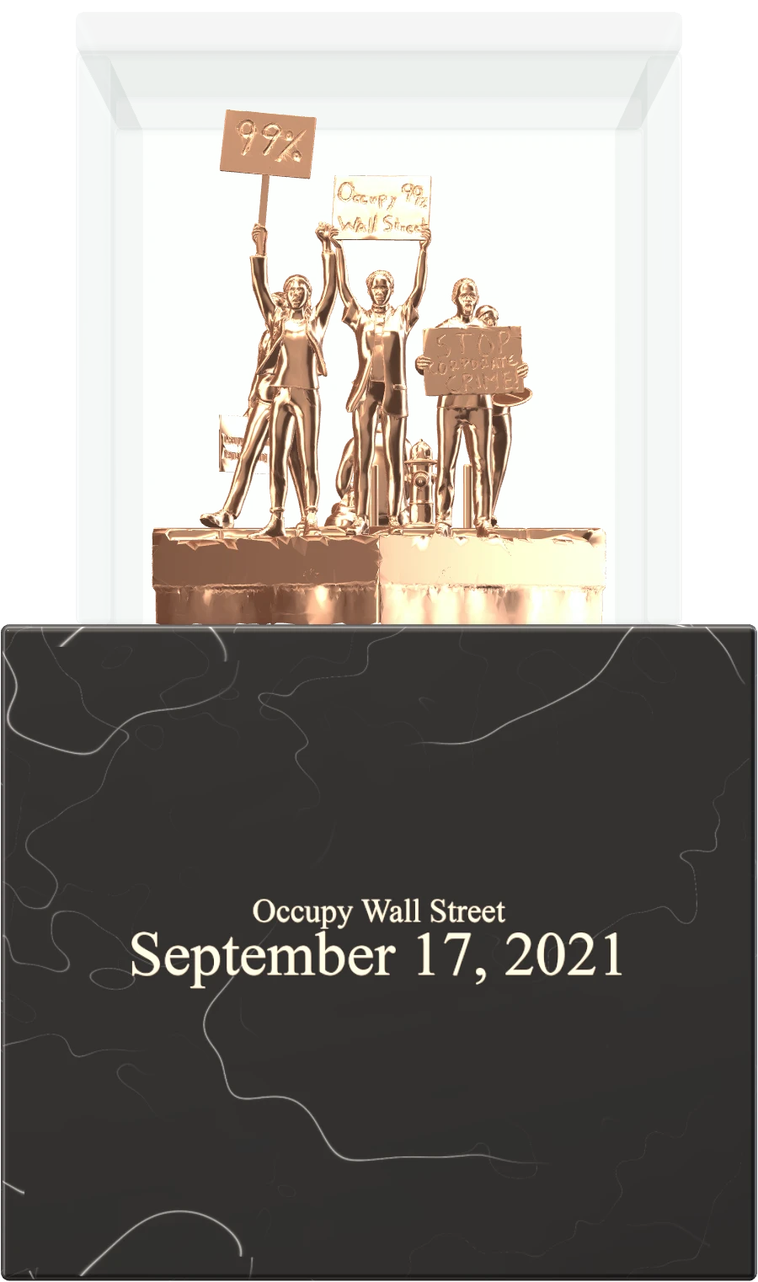
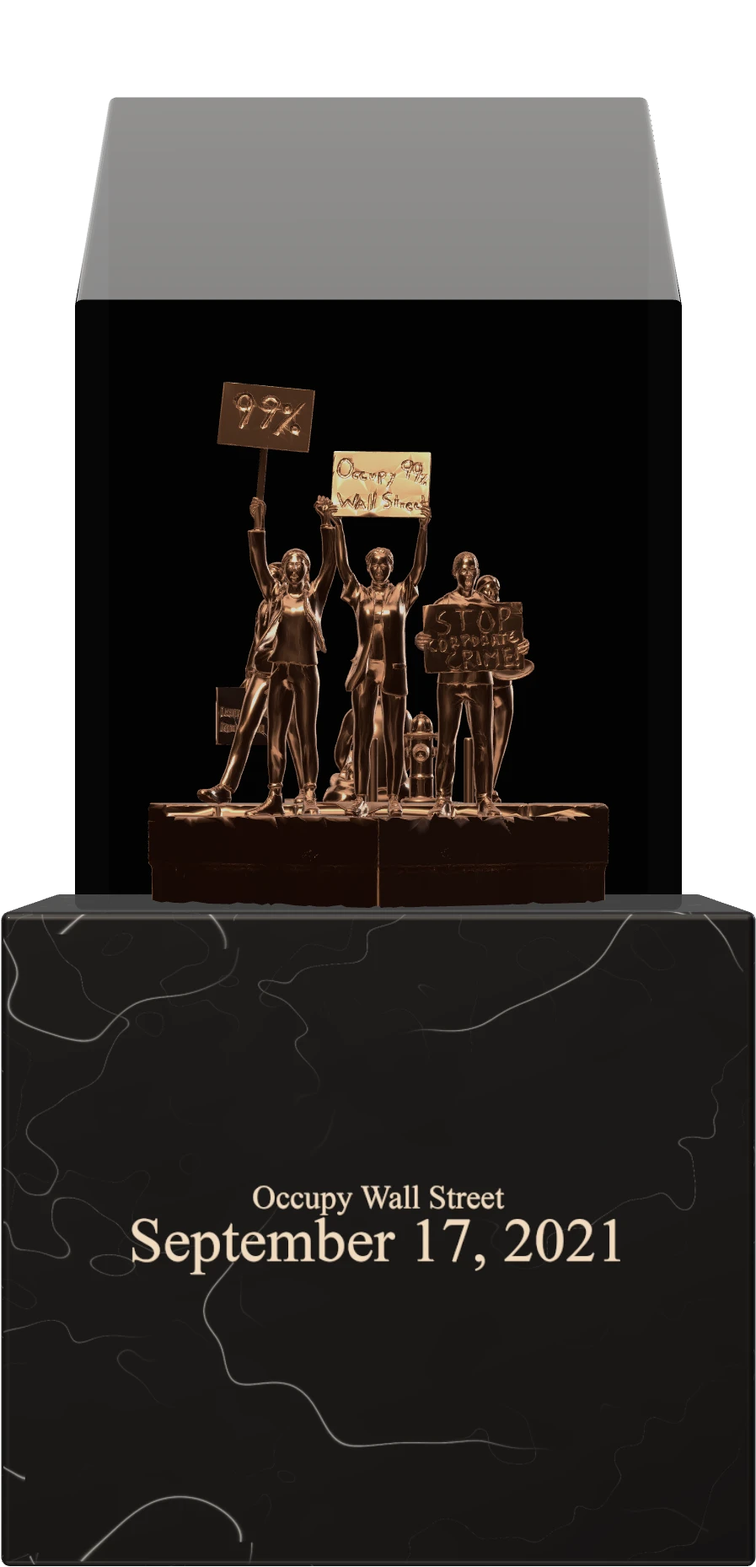
OWS Deal Toy: the acrylic is one solid piece with the sloped top
Checked against the render of the real object: the clear plastic is a single block
whose top is one plane sloping up towards the back (112 mm at the front, 164 at the
back), not a box of five panes, which showed an inset where the panes met and had
a flat top.

- The glass is one extruded profile with rounded edges, drawn as a faint dark veil
  plus a layer that adds only what the surface reflects (so the reflections are not
  dimmed by the veil's opacity). Back faces are drawn, so the far side shows through.
- The light boxes the reflections come from are re-aimed. They exist only in the
  reflection map: nothing of them is in the picture. One box is where the sloped
  roof looks (about 27 degrees up and behind once the piece is tilted), two narrow
  strips are behind the object for the bars of light down its sides, and nothing
  stands beside it, because a glass face seen at a grazing angle mirrors almost
  perfectly and showed any such box as a white wall.
- Proportions and the face-on still are redone for the taller piece (282 mm to the
  back edge): 897 x 1859.

Claude-Session: https://claude.ai/code/session_01EGwgPiuej9rzbPcR44dqfJ

diff --git a/js/toy.js b/js/toy.js
@@ -1,1 +1,1 @@
-import{A as ne,B as Qe,C as ye,D as Ze,a as de,c as fe,e as ue,f as T,g as pe,h as Ne,i as he,k as je,l as _,m as qe,n as He,o as Ye,p as _e,q as we,r as Je,s as me,z as Ke}from"./three-MD272M3B.js";var J=new T;function L(o,s,n,u,h,a){let r=2*Math.PI*h/4,p=Math.max(a-2*h,0),t=Math.PI/4;J.copy(s),J[u]=0,J.normalize();let M=.5*r/(r+p),d=1-J.angleTo(o)/t;return Math.sign(J[n])===1?d*M:p/(r+p)+M+M*(1-d)}var K=class extends qe{constructor(s=1,n=1,u=1,h=2,a=.1){if(h=h*2+1,a=Math.min(s/2,n/2,u/2,a),super(1,1,1,h,h,h),h===1)return;let r=this.toNonIndexed();this.index=null,this.attributes.position=r.attributes.position,this.attributes.normal=r.attributes.normal,this.attributes.uv=r.attributes.uv;let p=new T,t=new T,M=new T(s,n,u).divideScalar(2).subScalar(a),d=this.attributes.position.array,S=this.attributes.normal.array,w=this.attributes.uv.array,b=d.length/6,c=new T,x=.5/h;for(let m=0,y=0;m<d.length;m+=3,y+=2)switch(p.fromArray(d,m),t.copy(p),t.x-=Math.sign(t.x)*x,t.y-=Math.sign(t.y)*x,t.z-=Math.sign(t.z)*x,t.normalize(),d[m+0]=M.x*Math.sign(p.x)+t.x*a,d[m+1]=M.y*Math.sign(p.y)+t.y*a,d[m+2]=M.z*Math.sign(p.z)+t.z*a,S[m+0]=t.x,S[m+1]=t.y,S[m+2]=t.z,Math.floor(m/b)){case 0:c.set(1,0,0),w[y+0]=L(c,t,"z","y",a,u),w[y+1]=1-L(c,t,"y","z",a,n);break;case 1:c.set(-1,0,0),w[y+0]=1-L(c,t,"z","y",a,u),w[y+1]=1-L(c,t,"y","z",a,n);break;case 2:c.set(0,1,0),w[y+0]=1-L(c,t,"x","z",a,s),w[y+1]=L(c,t,"z","x",a,u);break;case 3:c.set(0,-1,0),w[y+0]=1-L(c,t,"x","z",a,s),w[y+1]=1-L(c,t,"z","x",a,u);break;case 4:c.set(0,0,1),w[y+0]=1-L(c,t,"x","y",a,s),w[y+1]=1-L(c,t,"y","x",a,n);break;case 5:c.set(0,0,-1),w[y+0]=L(c,t,"x","y",a,s),w[y+1]=1-L(c,t,"y","x",a,n);break}}};var z=Math.PI,C={w:136,h:118,d:136},i={w:111,h:112,d:111,wall:6,top:7},$e=C.h+i.h,dt=C.h+25.2;function ft(o){let s=new me;s.background=new pe(657932);function n(a,r,p,t,M,d,S,w){let b=new _(new Ye(a,r),new Ne({color:new pe(d,S,w),side:de}));b.position.set(p,t,M),b.lookAt(0,0,0),s.add(b)}n(18,5,0,10,2,11,10.5,10),n(4,16,-10,1,4,7,6.6,6.2),n(4,16,10,2,-2,6,6.2,6.6),n(14,10,0,1,11,.5,.48,.46),n(10,3,0,-9,2,1.3,1.2,1.1);let u=new _e(o),h=u.fromScene(s,.02).texture;return u.dispose(),h}function ut(o){let s=2166136261;for(let n of String(o||""))s^=n.charCodeAt(0),s=Math.imul(s,16777619);return function(){s+=1831565813;let n=s;return n=Math.imul(n^n>>>15,n|1),n^=n+Math.imul(n^n>>>7,n|61),((n^n>>>14)>>>0)/4294967296}}function et(o,s){return o.loadAsync(s).then(n=>(n.colorSpace=ue,n))}async function pt(o){let s=await fetch(o);if(!s.ok)throw new Error("figures: "+s.status);let n=typeof DecompressionStream=="function"?await new Response(s.body.pipeThrough(new DecompressionStream("gzip"))).arrayBuffer():(()=>{throw new Error("no DecompressionStream")})(),u=new DataView(n);if(u.getUint32(0,!1)!==1331122993)throw new Error("figures: not an OWS1 file");let h=u.getUint32(4,!0),a=u.getUint32(8,!0),r=[0,1,2].map(x=>u.getFloat32(12+x*4,!0)),p=[0,1,2].map(x=>u.getFloat32(24+x*4,!0)),t=new Uint16Array(n.slice(36,36+h*6)),M=new Uint32Array(n.slice(36+h*6,36+h*6+a*12)),d=new Float32Array(h*3),S=(p[0]-r[0])/65535,w=(p[1]-r[1])/65535,b=(p[2]-r[2])/65535;for(let x=0;x<h;x++){let m=r[0]+t[x*3]*S,y=r[1]+t[x*3+1]*w,E=r[2]+t[x*3+2]*b;d[x*3]=m,d[x*3+1]=E+dt,d[x*3+2]=-y}let c=new je;return c.setAttribute("position",new he(d,3)),c.setIndex(new he(M,1)),c.computeVertexNormals(),c}function xt(o){let s=o.el,n=1/C.w,u=1,h=$e*n,a=o.fit||Math.max(1,Math.max(h,u)/1.617),r;try{r=new Je({antialias:!0,alpha:!0})}catch(d){return Promise.reject(d)}r.setPixelRatio(Math.min(window.devicePixelRatio,2)),r.outputColorSpace=ue;let p=new me,t=new He(24,1,.1,100);t.position.set(0,0,5.3*a);let M=new Qe;return M.setCrossOrigin("anonymous"),Promise.all([pt(o.model),et(M,o.marble),et(M,o.front)]).then(function(d){let S=d[0],w=d[1],b=d[2],c=r.capabilities.getMaxAnisotropy();w.anisotropy=b.anisotropy=c,w.wrapS=w.wrapT=fe;let x=ft(r);p.environment=x;let m=new we,y=new we;y.position.y=-($e/2)*n,y.scale.setScalar(n),m.add(y),p.add(m);let E=(e,f,v)=>{let g=w.clone();return g.wrapS=g.wrapT=fe,g.repeat.set(v,v),g.offset.set(e,f),g.needsUpdate=!0,new ne({map:g,roughness:.42,metalness:0,clearcoat:.32,clearcoatRoughness:.06,envMapIntensity:.12})},xe=[E(.31,.12,.8),E(.66,.5,.8),E(.5,.88,.8),E(.2,.3,.8),new ne({map:b,roughness:.42,metalness:0,clearcoat:.32,clearcoatRoughness:.06,envMapIntensity:.12}),E(.12,.62,.8)],ge=new K(C.w,C.h,C.d,5,1.6),Me=new _(ge,xe);Me.position.y=C.h/2,y.add(Me);let be=new ne({color:13625056,metalness:0,roughness:.03,transparent:!0,opacity:.07,ior:1.5,clearcoat:1,clearcoatRoughness:.02,envMapIntensity:1.5,specularIntensity:1,depthWrite:!1,side:de}),ve=[],O=(e,f,v,g,V,te)=>{let W=new K(e,f,v,4,1.4),le=new _(W,be);le.renderOrder=2,le.position.set(g,V,te),y.add(le),ve.push(W)},X=C.h,I=i.h-i.top;O(i.w,i.top,i.d,0,X+i.h-i.top/2,0),O(i.w,I,i.wall,0,X+I/2,i.d/2-i.wall/2),O(i.w,I,i.wall,0,X+I/2,-i.d/2+i.wall/2),O(i.wall,I,i.d-2*i.wall,i.w/2-i.wall/2,X+I/2,0),O(i.wall,I,i.d-2*i.wall,-i.w/2+i.wall/2,X+I/2,0);let Le=new Ke({color:15115388,metalness:1,roughness:.2,envMapIntensity:1.55});y.add(new _(S,Le)),p.add(new Ze(16777215,.25*z));let Se=new ye(16773600,.8*z);Se.position.set(-1.6,4.2,5.4),p.add(Se);let ze=new ye(12570854,.35*z);ze.position.set(3.6,1.4,-3),p.add(ze);let oe=window.matchMedia("(prefers-reduced-motion: reduce)").matches,N=ut(o.seed),tt=o.period||46+N()*48,Ae=oe?0:o.sway===void 0?.2+N()*.2:o.sway,re=2*z/tt,nt=N()*2*z,ot=N()*2*z,rt=N()*2*z,st=o.rx===void 0?-.2:o.rx,j=0,A=o.ry||0,U=0,D=A,G=o.rx!==void 0?o.rx:0,k=0,P=0,q=o.rx!==void 0?1:0,Ee=e=>e-Math.round(e/(2*z))*2*z,Ie=()=>{let e=Math.min(1,j/6);return e*e*(3-2*e)},ke=()=>Ae*Ie()*(.82*Math.sin(re*j+nt)+.18*Math.sin(re*1.9*j+ot)),at=()=>oe?0:.03*Ie()*Math.sin(re*.7*j+rt),Pe=()=>st*(1-Math.pow(1-q,3))+at(),B=!1,Q=0,Re=!0,F=!0,Te=!1,se=0,ae=!o.hold,ie=0,Ce=0,Ue=0,De=0,Ge=0,R=r.domElement,l=o.pointerEl||R,ce=o.drag!==!1;R.style.cssText="width:100%;height:100%;display:block;pointer-events:none",ce&&(l.style.touchAction="pan-y",l.style.userSelect=l.style.webkitUserSelect="none",l.draggable=!1),s.appendChild(R);function Fe(){let e=s.clientWidth||1,f=s.clientHeight||1;t.aspect=e/f,t.updateProjectionMatrix(),r.setSize(e,f,!1),F=!0}let H=new T,it=Math.tan(12*z/180);function Z(){m.position.x=0,m.rotation.y=D,m.rotation.x=G,m.updateMatrixWorld(!0);let e=1/0,f=-1/0;for(let v of[-u/2,u/2])for(let g of[-h/2,h/2])for(let V of[-u/2,u/2])H.set(v,g,V).applyMatrix4(m.matrixWorld).project(t),H.x<e&&(e=H.x),H.x>f&&(f=H.x);m.position.x=-((e+f)/2)*it*t.position.z*t.aspect,r.render(p,t),F=!1}let Y=0;function We(e){e.preventDefault()}function Be(e){if(!(e.pointerType==="mouse"&&e.button!==0)){ae=!0,B=!0,Y=0,Ce=e.clientX,Ue=e.clientY,De=D,Ge=G,k=0,P=0,ie=e.timeStamp||performance.now(),l.dataset.dragged="",l.classList.add("is-grabbed");try{l.setPointerCapture(e.pointerId)}catch{}}}function Ve(e){if(!B)return;let f=e.clientX-Ce,v=e.clientY-Ue;if(Y=Math.max(Y,Math.abs(f)+Math.abs(v)),Y<6)return;let g=De+f*.009,V=Ge+v*.006,te=e.timeStamp||performance.now(),W=(te-ie)/1e3;W>.001&&W<.2&&(k=k*.6+(g-D)/W*.4,P=P*.6+(V-G)/W*.4),ie=te,D=g,G=V,F=!0}function $(e){if(B){B=!1,l.classList.remove("is-grabbed"),Y>=6&&(l.dataset.dragged="1",setTimeout(()=>{l.dataset.dragged=""},400));try{l.releasePointerCapture(e.pointerId)}catch{}}}function ct(e){e.preventDefault(),o.onLost&&o.onLost()}function lt(){F=!0}ce&&(l.addEventListener("pointerdown",Be),l.addEventListener("pointermove",Ve),l.addEventListener("pointerup",$),l.addEventListener("pointercancel",$),l.addEventListener("dragstart",We)),R.addEventListener("webglcontextlost",ct),R.addEventListener("webglcontextrestored",lt);let ee=null;window.IntersectionObserver&&(ee=new IntersectionObserver(e=>{Re=e[0].isIntersecting},{rootMargin:"150px"}),ee.observe(s));let Oe=()=>Fe();window.addEventListener("resize",Oe),Fe();function Xe(e){if(Te)return;if(se=requestAnimationFrame(Xe),!Q){Q=e;return}let f=Math.min((e-Q)/1e3,.1);if(Q=e,!!Re){if(!ae){F&&Z();return}if(j+=f,!oe&&q<1&&(q=Math.min(1,q+f/1.4)),B)A=Ee(D-ke()),U=G-Pe();else{A+=k*f,U+=P*f;let v=Math.pow(.22,f);k*=v,P*=v,Math.abs(k)<.001&&(k=0),Math.abs(P)<.001&&(P=0);let g=Math.exp(-f*.75);A=Ee(A)*g,U*=g,Math.abs(A)<5e-4&&(A=0),Math.abs(U)<5e-4&&(U=0),D=ke()+A,G=Pe()+U}(Ae||q<1||A||U||k||P||B)&&(F=!0),F&&Z()}}return Z(),se=requestAnimationFrame(Xe),{start(){ae=!0},debug:{scene:p,camera:t,piece:m,renderer:r},pose(e,f){D=e,G=f,Z()},destroy(){Te=!0,cancelAnimationFrame(se),window.removeEventListener("resize",Oe),l.removeEventListener("pointerdown",Be),l.removeEventListener("pointermove",Ve),l.removeEventListener("pointerup",$),l.removeEventListener("pointercancel",$),l.removeEventListener("dragstart",We),l.classList.remove("is-grabbed"),ce&&(l.style.touchAction="",l.style.userSelect=l.style.webkitUserSelect=""),ee&&ee.disconnect(),w.dispose(),b.dispose(),x.dispose(),xe.forEach(e=>{e.map&&e.map!==b&&e.map.dispose(),e.dispose()}),ge.dispose(),ve.forEach(e=>e.dispose()),be.dispose(),S.dispose(),Le.dispose(),r.dispose(),r.forceContextLoss&&r.forceContextLoss(),R.parentNode&&R.parentNode.removeChild(R)}}}).catch(function(d){throw r.dispose(),d})}export{xt as build};
+import{A as oe,B as it,C as ve,D as at,a as te,b as Ke,c as pe,e as he,f as P,g as me,h as we,i as ye,k as Qe,l as O,m as Ze,n as $e,o as et,p as tt,q as ne,r as nt,s as xe,w as ot,x as rt,z as st}from"./three-MD272M3B.js";var H=new P;function g(o,s,n,d,u,i){let r=2*Math.PI*u/4,f=Math.max(i-2*u,0),t=Math.PI/4;H.copy(s),H[d]=0,H.normalize();let x=.5*r/(r+f),l=1-H.angleTo(o)/t;return Math.sign(H[n])===1?l*x:f/(r+f)+x+x*(1-l)}var re=class extends Ze{constructor(s=1,n=1,d=1,u=2,i=.1){if(u=u*2+1,i=Math.min(s/2,n/2,d/2,i),super(1,1,1,u,u,u),u===1)return;let r=this.toNonIndexed();this.index=null,this.attributes.position=r.attributes.position,this.attributes.normal=r.attributes.normal,this.attributes.uv=r.attributes.uv;let f=new P,t=new P,x=new P(s,n,d).divideScalar(2).subScalar(i),l=this.attributes.position.array,M=this.attributes.normal.array,p=this.attributes.uv.array,b=l.length/6,a=new P,y=.5/u;for(let h=0,m=0;h<l.length;h+=3,m+=2)switch(f.fromArray(l,h),t.copy(f),t.x-=Math.sign(t.x)*y,t.y-=Math.sign(t.y)*y,t.z-=Math.sign(t.z)*y,t.normalize(),l[h+0]=x.x*Math.sign(f.x)+t.x*i,l[h+1]=x.y*Math.sign(f.y)+t.y*i,l[h+2]=x.z*Math.sign(f.z)+t.z*i,M[h+0]=t.x,M[h+1]=t.y,M[h+2]=t.z,Math.floor(h/b)){case 0:a.set(1,0,0),p[m+0]=g(a,t,"z","y",i,d),p[m+1]=1-g(a,t,"y","z",i,n);break;case 1:a.set(-1,0,0),p[m+0]=1-g(a,t,"z","y",i,d),p[m+1]=1-g(a,t,"y","z",i,n);break;case 2:a.set(0,1,0),p[m+0]=1-g(a,t,"x","z",i,s),p[m+1]=g(a,t,"z","x",i,d);break;case 3:a.set(0,-1,0),p[m+0]=1-g(a,t,"x","z",i,s),p[m+1]=1-g(a,t,"z","x",i,d);break;case 4:a.set(0,0,1),p[m+0]=1-g(a,t,"x","y",i,s),p[m+1]=1-g(a,t,"y","x",i,n);break;case 5:a.set(0,0,-1),p[m+0]=g(a,t,"x","y",i,s),p[m+1]=1-g(a,t,"y","x",i,n);break}}};var S=Math.PI,R={w:136,h:118,d:136},G={w:111,d:111,front:112,rise:52},ct=R.h+G.front+G.rise,vt=R.h+25.2;function bt(o){let s=new xe;s.background=new me(328966);function n(i,r,f,t,x,l,M,p){let b=new O(new et(i,r),new we({color:new me(l,M,p),side:te}));b.position.set(f,t,x),b.lookAt(0,0,0),s.add(b)}n(24,8,0,5.4,-8.4,.85,.84,.82),n(2,18,7,1.5,-9,4.4,4.5,4.8),n(2,18,-8,1,-8,1.8,1.7,1.6),n(20,7,0,11,4,1.6,1.55,1.5),n(16,4,0,-8,5,1.2,1.1,1);let d=new tt(o),u=d.fromScene(s,0).texture;return d.dispose(),u}function gt(o){let s=2166136261;for(let n of String(o||""))s^=n.charCodeAt(0),s=Math.imul(s,16777619);return function(){s+=1831565813;let n=s;return n=Math.imul(n^n>>>15,n|1),n^=n+Math.imul(n^n>>>7,n|61),((n^n>>>14)>>>0)/4294967296}}function lt(o,s){return o.loadAsync(s).then(n=>(n.colorSpace=he,n))}async function Mt(o){let s=await fetch(o);if(!s.ok)throw new Error("figures: "+s.status);let n=typeof DecompressionStream=="function"?await new Response(s.body.pipeThrough(new DecompressionStream("gzip"))).arrayBuffer():(()=>{throw new Error("no DecompressionStream")})(),d=new DataView(n);if(d.getUint32(0,!1)!==1331122993)throw new Error("figures: not an OWS1 file");let u=d.getUint32(4,!0),i=d.getUint32(8,!0),r=[0,1,2].map(y=>d.getFloat32(12+y*4,!0)),f=[0,1,2].map(y=>d.getFloat32(24+y*4,!0)),t=new Uint16Array(n.slice(36,36+u*6)),x=new Uint32Array(n.slice(36+u*6,36+u*6+i*12)),l=new Float32Array(u*3),M=(f[0]-r[0])/65535,p=(f[1]-r[1])/65535,b=(f[2]-r[2])/65535;for(let y=0;y<u;y++){let h=r[0]+t[y*3]*M,m=r[1]+t[y*3+1]*p,E=r[2]+t[y*3+2]*b;l[y*3]=h,l[y*3+1]=E+vt,l[y*3+2]=-m}let a=new Qe;return a.setAttribute("position",new ye(l,3)),a.setIndex(new ye(x,1)),a.computeVertexNormals(),a}function Et(o){let s=o.el,n=1/R.w,d=1,u=ct*n,i=o.fit||Math.max(1,Math.max(u,d)/1.617),r;try{r=new nt({antialias:!0,alpha:!0})}catch(l){return Promise.reject(l)}r.setPixelRatio(Math.min(window.devicePixelRatio,2)),r.outputColorSpace=he;let f=new xe,t=new $e(24,1,.1,100);t.position.set(0,0,5.3*i);let x=new it;return x.setCrossOrigin("anonymous"),Promise.all([Mt(o.model),lt(x,o.marble),lt(x,o.front)]).then(function(l){let M=l[0],p=l[1],b=l[2],a=r.capabilities.getMaxAnisotropy();p.anisotropy=b.anisotropy=a,p.wrapS=p.wrapT=pe;let y=bt(r);f.environment=y;let h=new ne,m=new ne;m.position.y=-(ct/2)*n,m.scale.setScalar(n),h.add(m),f.add(h);let E=(e,w,L)=>{let v=p.clone();return v.wrapS=v.wrapT=pe,v.repeat.set(L,L),v.offset.set(e,w),v.needsUpdate=!0,new oe({map:v,roughness:.42,metalness:0,clearcoat:.32,clearcoatRoughness:.06,envMapIntensity:.12})},be=[E(.31,.12,.8),E(.66,.5,.8),E(.5,.88,.8),E(.2,.3,.8),new oe({map:b,roughness:.42,metalness:0,clearcoat:.32,clearcoatRoughness:.06,envMapIntensity:.12}),E(.12,.62,.8)],ge=new re(R.w,R.h,R.d,5,1.6),Me=new O(ge,be);Me.position.y=R.h/2,m.add(Me);let Se=G.w,z=1.6,W=new ot,se=-G.d/2+z,Le=G.d/2-z,ie=z;W.moveTo(se,ie),W.lineTo(Le,ie),W.lineTo(Le,G.front-z),W.lineTo(se,G.front+G.rise-z),W.lineTo(se,ie);let Y=new rt(W,{depth:Se-2*z,bevelEnabled:!0,bevelThickness:z,bevelSize:z,bevelSegments:5,curveSegments:8});Y.translate(0,0,-(Se-2*z)/2);let ze=new we({color:0,transparent:!0,opacity:.16,depthWrite:!1,side:te}),Ae=new oe({color:0,metalness:0,roughness:.015,ior:1.52,specularIntensity:1,clearcoat:1,clearcoatRoughness:.01,envMapIntensity:1,transparent:!0,blending:Ke,depthWrite:!1,side:te}),_=new ne,Ee=new O(Y,ze),Ie=new O(Y,Ae);Ee.renderOrder=2,Ie.renderOrder=3,_.add(Ee,Ie),_.rotation.y=-S/2,_.position.y=R.h,m.add(_);let Te=new st({color:15115388,metalness:1,roughness:.2,envMapIntensity:1.55});m.add(new O(M,Te)),f.add(new at(16777215,.25*S));let ke=new ve(16773600,.8*S);ke.position.set(-1.6,4.2,5.4),f.add(ke);let Pe=new ve(12570854,.35*S);Pe.position.set(3.6,1.4,-3),f.add(Pe);let ae=window.matchMedia("(prefers-reduced-motion: reduce)").matches,V=gt(o.seed),dt=o.period||46+V()*48,Re=ae?0:o.sway===void 0?.2+V()*.2:o.sway,ce=2*S/dt,ft=V()*2*S,ut=V()*2*S,pt=V()*2*S,ht=o.rx===void 0?-.2:o.rx,X=0,A=o.ry||0,C=0,U=A,D=o.rx!==void 0?o.rx:0,I=0,T=0,N=o.rx!==void 0?1:0,Ge=e=>e-Math.round(e/(2*S))*2*S,Ce=()=>{let e=Math.min(1,X/6);return e*e*(3-2*e)},Ue=()=>Re*Ce()*(.82*Math.sin(ce*X+ft)+.18*Math.sin(ce*1.9*X+ut)),mt=()=>ae?0:.03*Ce()*Math.sin(ce*.7*X+pt),De=()=>ht*(1-Math.pow(1-N,3))+mt(),B=!1,J=0,Fe=!0,F=!0,We=!1,le=0,de=!o.hold,fe=0,Be=0,Oe=0,Ve=0,Xe=0,k=r.domElement,c=o.pointerEl||k,ue=o.drag!==!1;k.style.cssText="width:100%;height:100%;display:block;pointer-events:none",ue&&(c.style.touchAction="pan-y",c.style.userSelect=c.style.webkitUserSelect="none",c.draggable=!1),s.appendChild(k);function Ne(){let e=s.clientWidth||1,w=s.clientHeight||1;t.aspect=e/w,t.updateProjectionMatrix(),r.setSize(e,w,!1),F=!0}let j=new P,wt=Math.tan(12*S/180);function K(){h.position.x=0,h.rotation.y=U,h.rotation.x=D,h.updateMatrixWorld(!0);let e=1/0,w=-1/0;for(let L of[-d/2,d/2])for(let v of[-u/2,u/2])for(let $ of[-d/2,d/2])j.set(L,v,$).applyMatrix4(h.matrixWorld).project(t),j.x<e&&(e=j.x),j.x>w&&(w=j.x);h.position.x=-((e+w)/2)*wt*t.position.z*t.aspect,r.render(f,t),F=!1}let q=0;function je(e){e.preventDefault()}function qe(e){if(!(e.pointerType==="mouse"&&e.button!==0)){de=!0,B=!0,q=0,Be=e.clientX,Oe=e.clientY,Ve=U,Xe=D,I=0,T=0,fe=e.timeStamp||performance.now(),c.dataset.dragged="",c.classList.add("is-grabbed");try{c.setPointerCapture(e.pointerId)}catch{}}}function He(e){if(!B)return;let w=e.clientX-Be,L=e.clientY-Oe;if(q=Math.max(q,Math.abs(w)+Math.abs(L)),q<6)return;let v=Ve+w*.009,$=Xe+L*.006,Je=e.timeStamp||performance.now(),ee=(Je-fe)/1e3;ee>.001&&ee<.2&&(I=I*.6+(v-U)/ee*.4,T=T*.6+($-D)/ee*.4),fe=Je,U=v,D=$,F=!0}function Q(e){if(B){B=!1,c.classList.remove("is-grabbed"),q>=6&&(c.dataset.dragged="1",setTimeout(()=>{c.dataset.dragged=""},400));try{c.releasePointerCapture(e.pointerId)}catch{}}}function yt(e){e.preventDefault(),o.onLost&&o.onLost()}function xt(){F=!0}ue&&(c.addEventListener("pointerdown",qe),c.addEventListener("pointermove",He),c.addEventListener("pointerup",Q),c.addEventListener("pointercancel",Q),c.addEventListener("dragstart",je)),k.addEventListener("webglcontextlost",yt),k.addEventListener("webglcontextrestored",xt);let Z=null;window.IntersectionObserver&&(Z=new IntersectionObserver(e=>{Fe=e[0].isIntersecting},{rootMargin:"150px"}),Z.observe(s));let Ye=()=>Ne();window.addEventListener("resize",Ye),Ne();function _e(e){if(We)return;if(le=requestAnimationFrame(_e),!J){J=e;return}let w=Math.min((e-J)/1e3,.1);if(J=e,!!Fe){if(!de){F&&K();return}if(X+=w,!ae&&N<1&&(N=Math.min(1,N+w/1.4)),B)A=Ge(U-Ue()),C=D-De();else{A+=I*w,C+=T*w;let L=Math.pow(.22,w);I*=L,T*=L,Math.abs(I)<.001&&(I=0),Math.abs(T)<.001&&(T=0);let v=Math.exp(-w*.75);A=Ge(A)*v,C*=v,Math.abs(A)<5e-4&&(A=0),Math.abs(C)<5e-4&&(C=0),U=Ue()+A,D=De()+C}(Re||N<1||A||C||I||T||B)&&(F=!0),F&&K()}}return K(),le=requestAnimationFrame(_e),{start(){de=!0},debug:{scene:f,camera:t,piece:h,renderer:r},pose(e,w){U=e,D=w,K()},destroy(){We=!0,cancelAnimationFrame(le),window.removeEventListener("resize",Ye),c.removeEventListener("pointerdown",qe),c.removeEventListener("pointermove",He),c.removeEventListener("pointerup",Q),c.removeEventListener("pointercancel",Q),c.removeEventListener("dragstart",je),c.classList.remove("is-grabbed"),ue&&(c.style.touchAction="",c.style.userSelect=c.style.webkitUserSelect=""),Z&&Z.disconnect(),p.dispose(),b.dispose(),y.dispose(),be.forEach(e=>{e.map&&e.map!==b&&e.map.dispose(),e.dispose()}),ge.dispose(),Y.dispose(),ze.dispose(),Ae.dispose(),M.dispose(),Te.dispose(),r.dispose(),r.forceContextLoss&&r.forceContextLoss(),k.parentNode&&k.parentNode.removeChild(k)}}}).catch(function(l){throw r.dispose(),l})}export{Et as build};

diff --git a/_penny/toy.js b/_penny/toy.js
@@ -13,9 +13,9 @@
 // Bundled with the parts of three.js it uses into /js/toy.js:
 //   cd _penny && npm install && node build.mjs
 import {
-  AmbientLight, BufferAttribute, BufferGeometry, Color, DirectionalLight, DoubleSide, Group, Mesh,
+  AdditiveBlending, AmbientLight, BufferAttribute, BufferGeometry, Color, DirectionalLight, DoubleSide, ExtrudeGeometry, Group, Mesh,
   MeshBasicMaterial, MeshPhysicalMaterial, MeshStandardMaterial, PerspectiveCamera, PlaneGeometry,
-  PMREMGenerator, RepeatWrapping, Scene, SRGBColorSpace, TextureLoader, Vector3, WebGLRenderer
+  PMREMGenerator, RepeatWrapping, Scene, Shape, SRGBColorSpace, TextureLoader, Vector3, WebGLRenderer
 } from 'three';
 import { RoundedBoxGeometry } from 'three/examples/jsm/geometries/RoundedBoxGeometry.js';
 
@@ -23,27 +23,37 @@ const PI = Math.PI;
 
 // The object, in millimetres, measured from the photographs. y is up; the marble sits on y = 0.
 const MARBLE = { w: 136, h: 118, d: 136 };
-const GLASS = { w: 111, h: 112, d: 111, wall: 6, top: 7 };
-const TOTAL_H = MARBLE.h + GLASS.h;               // 230
+// The acrylic is one solid piece: a block with a single plane sloping up towards the back, the shape of a lean-to
+// roof. Its front is 112 mm tall, its back 164.
+const GLASS = { w: 111, d: 111, front: 112, rise: 52 };
+const TOTAL_H = MARBLE.h + GLASS.front + GLASS.rise;       // 282, to the top of the back edge
 const FIG_LIFT = MARBLE.h + 25.2;                 // the plinth's underside (z = -25.2 in the print file) rests on the stone
 
-// A few light boxes in a dark room: what the gold, the polish and the glass have to reflect.
+// The light boxes. A room of softboxes that the object reflects and the viewer never sees: they exist only in the
+// reflection map the surfaces look at, never in the picture, and the canvas behind the object stays clear. What
+// reads as polish is how crisp their edges are in the surface, so they are large, bright and hard-edged, in a
+// dark room; their placement is what puts a bright plane on the roof, a black one on the sides, a bar of light
+// on a marble edge. Directions: +z is towards the viewer, +y up.
 function studio(renderer) {
   const room = new Scene();
-  room.background = new Color(0x0a0a0c);
+  room.background = new Color(0x050506);
   function box(w, h, x, y, z, r, g, b) {
     const m = new Mesh(new PlaneGeometry(w, h), new MeshBasicMaterial({ color: new Color(r, g, b), side: DoubleSide }));
     m.position.set(x, y, z);
     m.lookAt(0, 0, 0);
     room.add(m);
   }
-  box(18, 5, 0, 10, 2, 11, 10.5, 10);             // overhead softbox
-  box(4, 16, -10, 1, 4, 7, 6.6, 6.2);             // tall strip, left, a touch warm
-  box(4, 16, 10, 2, -2, 6, 6.2, 6.6);             // tall strip, right, a touch cool
-  box(14, 10, 0, 1, 11, 0.5, 0.48, 0.46);         // broad fill behind the viewer: dim, or a polished face mirrors it as grey
-  box(10, 3, 0, -9, 2, 1.3, 1.2, 1.1);            // the floor's bounce
+  // The roof looks up and back (about 27 degrees, tilted as the piece sits), so that is where its light is: one box, no bigger than the roof's
+  // reach. The sides are seen at a grazing angle, where glass mirrors almost perfectly, and look towards the back
+  // of the room, so the back of the room is mostly dark with a pair of narrow strips: a bar down the right-hand
+  // face, a fainter one down the left. Nothing stands to either side of the object.
+  box(24, 8, 0, 5.4, -8.4, 0.85, 0.84, 0.82);       // what the sloped roof reflects: it looks up about 27 degrees at the back once the piece is tilted
+  box(2, 18, 7, 1.5, -9, 4.4, 4.5, 4.8);          // strip, behind right, a touch cool
+  box(2, 18, -8, 1, -8, 1.8, 1.7, 1.6);           // strip, behind left, fainter and warmer
+  box(20, 7, 0, 11, 4, 1.6, 1.55, 1.5);            // a softbox over the viewer: the top of the marble, the gold
+  box(16, 4, 0, -8, 5, 1.2, 1.1, 1.0);            // the floor's bounce
   const pm = new PMREMGenerator(renderer);
-  const tex = pm.fromScene(room, 0.02).texture;
+  const tex = pm.fromScene(room, 0).texture;
   pm.dispose();
   return tex;
 }
@@ -149,27 +159,35 @@ export function build(opts) {
     stoneMesh.position.y = MARBLE.h / 2;
     body.add(stoneMesh);
 
-    // the glass: five panes standing on the stone, with polished rounded edges
-    // Clear acrylic is mostly not there: a faint tint, and what it reflects. (Transmission needs something drawn
-    // behind it to bend; on a transparent canvas there is nothing, and it comes out grey.)
-    const glassMat = new MeshPhysicalMaterial({
-      color: 0xcfe6e0, metalness: 0, roughness: 0.03, transparent: true, opacity: 0.07, ior: 1.5,
-      clearcoat: 1, clearcoatRoughness: 0.02, envMapIntensity: 1.5, specularIntensity: 1, depthWrite: false, side: DoubleSide
+    // The glass: one solid piece. Its profile is a quadrilateral (front edge low, back edge high), extruded the
+    // width of the piece, with its edges rounded where polished acrylic is. Built about its own middle, then turned
+    // so the profile runs front to back.
+    const gw = GLASS.w, bev = 1.6;
+    const prof = new Shape();
+    const u0 = -GLASS.d / 2 + bev, u1 = GLASS.d / 2 - bev, v0 = bev;
+    prof.moveTo(u0, v0);
+    prof.lineTo(u1, v0);
+    prof.lineTo(u1, GLASS.front - bev);                                  // up the front
+    prof.lineTo(u0, GLASS.front + GLASS.rise - bev);                     // along the roof, rising away
+    prof.lineTo(u0, v0);                                                 // down the back
+    const glassGeo = new ExtrudeGeometry(prof, { depth: gw - 2 * bev, bevelEnabled: true, bevelThickness: bev, bevelSize: bev, bevelSegments: 5, curveSegments: 8 });
+    glassGeo.translate(0, 0, -(gw - 2 * bev) / 2);
+    // Acrylic of this thickness is clear but not invisible: it takes a little light out of whatever is behind it
+    // (the tint), and gives back the room (the reflection). Two layers say that: a faint dark veil, and a layer
+    // that adds only what the surface reflects. Reflected light is not scaled by the veil's opacity, which it
+    // would be if both were one material. Back faces are drawn as well, so the far side of the block shows too.
+    const veilMat = new MeshBasicMaterial({ color: 0x000000, transparent: true, opacity: 0.16, depthWrite: false, side: DoubleSide });
+    const sheenMat = new MeshPhysicalMaterial({
+      color: 0x000000, metalness: 0, roughness: 0.015, ior: 1.52, specularIntensity: 1, clearcoat: 1, clearcoatRoughness: 0.01,
+      envMapIntensity: 1.0, transparent: true, blending: AdditiveBlending, depthWrite: false, side: DoubleSide
     });
-    const panes = [];
-    const pane = (w, h, d, x, y, z) => {
-      const g = new RoundedBoxGeometry(w, h, d, 4, 1.4);
-      const m = new Mesh(g, glassMat);
-      m.renderOrder = 2;
-      m.position.set(x, y, z);
-      body.add(m); panes.push(g);
-    };
-    const gy = MARBLE.h, side = GLASS.h - GLASS.top;
-    pane(GLASS.w, GLASS.top, GLASS.d, 0, gy + GLASS.h - GLASS.top / 2, 0);                                   // top
-    pane(GLASS.w, side, GLASS.wall, 0, gy + side / 2, GLASS.d / 2 - GLASS.wall / 2);                          // front
-    pane(GLASS.w, side, GLASS.wall, 0, gy + side / 2, -GLASS.d / 2 + GLASS.wall / 2);                         // back
-    pane(GLASS.wall, side, GLASS.d - 2 * GLASS.wall, GLASS.w / 2 - GLASS.wall / 2, gy + side / 2, 0);        // right
-    pane(GLASS.wall, side, GLASS.d - 2 * GLASS.wall, -GLASS.w / 2 + GLASS.wall / 2, gy + side / 2, 0);       // left
+    const glassGroup = new Group();
+    const veil = new Mesh(glassGeo, veilMat), sheen = new Mesh(glassGeo, sheenMat);
+    veil.renderOrder = 2; sheen.renderOrder = 3;
+    glassGroup.add(veil, sheen);
+    glassGroup.rotation.y = -PI / 2;                                     // the profile's u runs +z, towards the viewer
+    glassGroup.position.y = MARBLE.h;
+    body.add(glassGroup);
 
     // the gold
     const goldMat = new MeshStandardMaterial({ color: 0xe6a47c, metalness: 1, roughness: 0.2, envMapIntensity: 1.55 });
@@ -342,7 +360,7 @@ export function build(opts) {
         if (io) io.disconnect();
         stone.dispose(); front.dispose(); env.dispose();
         stoneMats.forEach((m) => { if (m.map && m.map !== front) m.map.dispose(); m.dispose(); });
-        stoneGeo.dispose(); panes.forEach((g) => g.dispose()); glassMat.dispose();
+        stoneGeo.dispose(); glassGeo.dispose(); veilMat.dispose(); sheenMat.dispose();
         figGeo.dispose(); goldMat.dispose();
         renderer.dispose();
         if (renderer.forceContextLoss) renderer.forceContextLoss();

diff --git a/_projects/2020-01-01-ows-deal-toy.md b/_projects/2020-01-01-ows-deal-toy.md
@@ -33,15 +33,16 @@ plate_w: 1000
 plate_h: 1690
 # The 3D object on the wall: the gold from the print file (_penny/toy_prep.py, 200,000 triangles, nearly all of
 # them on the figures), the marble and its engraving (_penny/toy_marble.py), and a still of it face on.
-# 136 mm wide, 230 mm tall, 136 mm deep; the figures are in clear acrylic on a block of black Nero Marquina.
+# 136 mm wide, 282 mm tall at the back edge, 136 mm deep; the figures are in one piece of clear acrylic with a
+# sloped top (112 mm at the front, 164 at the back) on a block of black Nero Marquina.
 toy:
   model: "/images/ows3d/figures.bin.gz"
   marble: "/images/ows3d/marble.webp"
   engraving: "/images/ows3d/marble-front.webp"
   front: "/images/ows3d/front.webp"
-  front_w: 900
-  front_h: 1522
-  h: 1.6912    # 230 / 136
+  front_w: 897
+  front_h: 1859
+  h: 2.0735    # 282 / 136
   d: 1.0       # 136 / 136
 section: studio
 dark: true
